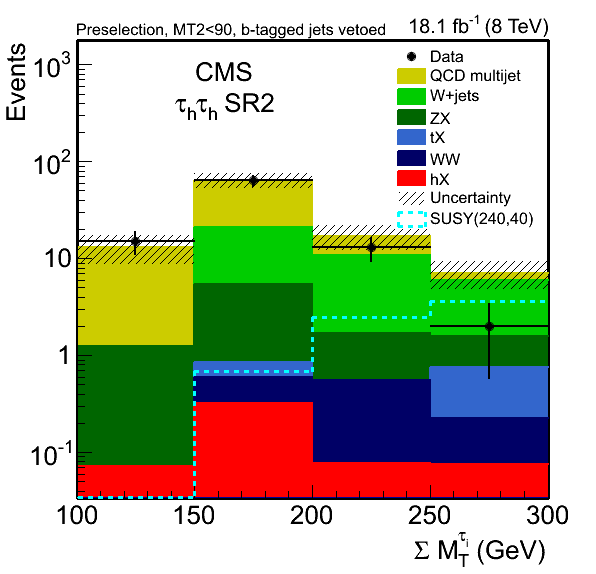
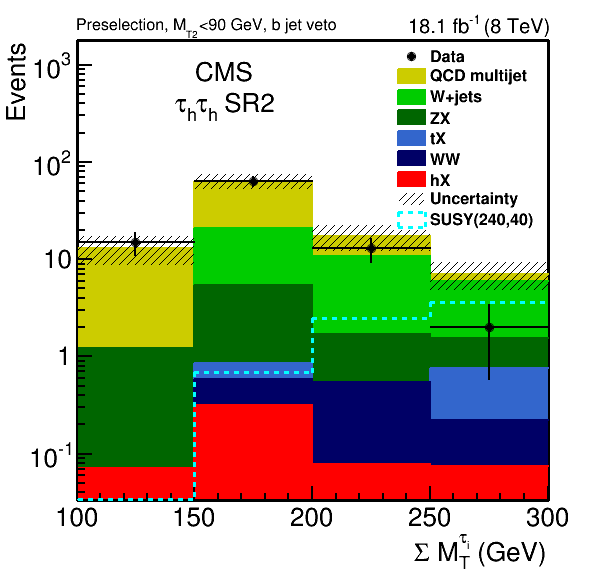
Fig 3 and 4 updated according to FR meeting comments.

diff --git a/papers/SUS-14-022/trunk/Bkg/ABCD/ABCDFullTex1.tex b/papers/SUS-14-022/trunk/Bkg/ABCD/ABCDFullTex1.tex
@@ -10,14 +10,14 @@
   \draw[thick,->] (0,0) -- (0.8,0) -- coordinate (x axis mid) (0.96,0);
   \draw[thick,->] (0,0) -- (0,0.56) -- coordinate (y axis mid) (0,1.42);
 
-  \node[below=0.1cm] at (x axis mid) {$M_{T2}\;\rm{or}\;\Sigma M_T^{\tau_i}$ (GeV)};
+  \node[below=0.1cm] at (x axis mid) {$\rm {M}_{T2}\;\rm{or}\;\Sigma M_T^{\tau_i}$ (GeV)};
   \node[rotate=90, above=0.1cm] at (y axis mid) {Charge and $\tau_{h}$ Isolation};
 
   \node [below right] at (.48,.71) {
     \begin{tcolorbox}[hbox]
       \begin{varwidth}{0.39\textwidth}
         \center{
-          \color{red} (Control Region 3) \\
+          \color{red} Control Region 3 \\
           \color{black} Two SS $\tau_{h}\tau_{h}$, one $\tau_{h}$ loose non medium isolation,\\
           one $\tau_{h}$ loose isolation. High $M_{T2}$ or $\Sigma M_T^{\tau_i}$
         }
@@ -28,7 +28,7 @@
     \begin{tcolorbox}[hbox]
       \begin{varwidth}{0.39\textwidth}
         \center{
-          \color{red} (Control Region 1) \\
+          \color{red} Control Region 1 \\
           \color{black} Two OS $\tau_{h}\tau_{h}$, both passing medium isolation.\\
           Low $M_{T2}$ or $\Sigma M_T^{\tau_i}$\\
           \hspace{128bp}
@@ -40,7 +40,7 @@
     \begin{tcolorbox}[hbox]
       \begin{varwidth}{0.39\textwidth}
         \center{
-          \color{red} (Control Region 2) \\
+          \color{red} Control Region 2 \\
           \color{black} Two SS $\tau_{h}\tau_{h}$, one $\tau_{h}$ loose non medium isolation,\\
           one $\tau_{h}$ loose isolation. Low $M_{T2}$ or $\Sigma M_T^{\tau_i}$
         }
@@ -51,7 +51,7 @@
     \begin{tcolorbox}[hbox]
       \begin{varwidth}{0.39\textwidth}
         \center{
-          \color{red} (Signal Region) \\
+          \color{red} Signal Region \\
           \color{black} Two OS $\tau_{h}\tau_{h}$, both passing medium isolation.\\
           High $M_{T2}$ or $\Sigma M_T^{\tau_i}$\\
           \hspace{127bp}

diff --git a/papers/SUS-14-022/trunk/StatisticsFig/QCDWestimation_bin2.C b/papers/SUS-14-022/trunk/StatisticsFig/QCDWestimation_bin2.C
@@ -508,7 +508,7 @@ tex->SetNDC();
    tex->SetTextFont(42);
    tex->SetLineWidth(2);
    tex->Draw();
-      tex = new TLatex(0.1275168,0.9390244,"Preselection, MT2<90, b-tagged jets vetoed");
+      tex = new TLatex(0.1275168,0.9475,"Preselection, M_{T2}<90 GeV, b jet veto");
 tex->SetNDC();
    tex->SetTextFont(42);
    tex->SetTextSize(0.02972028);
